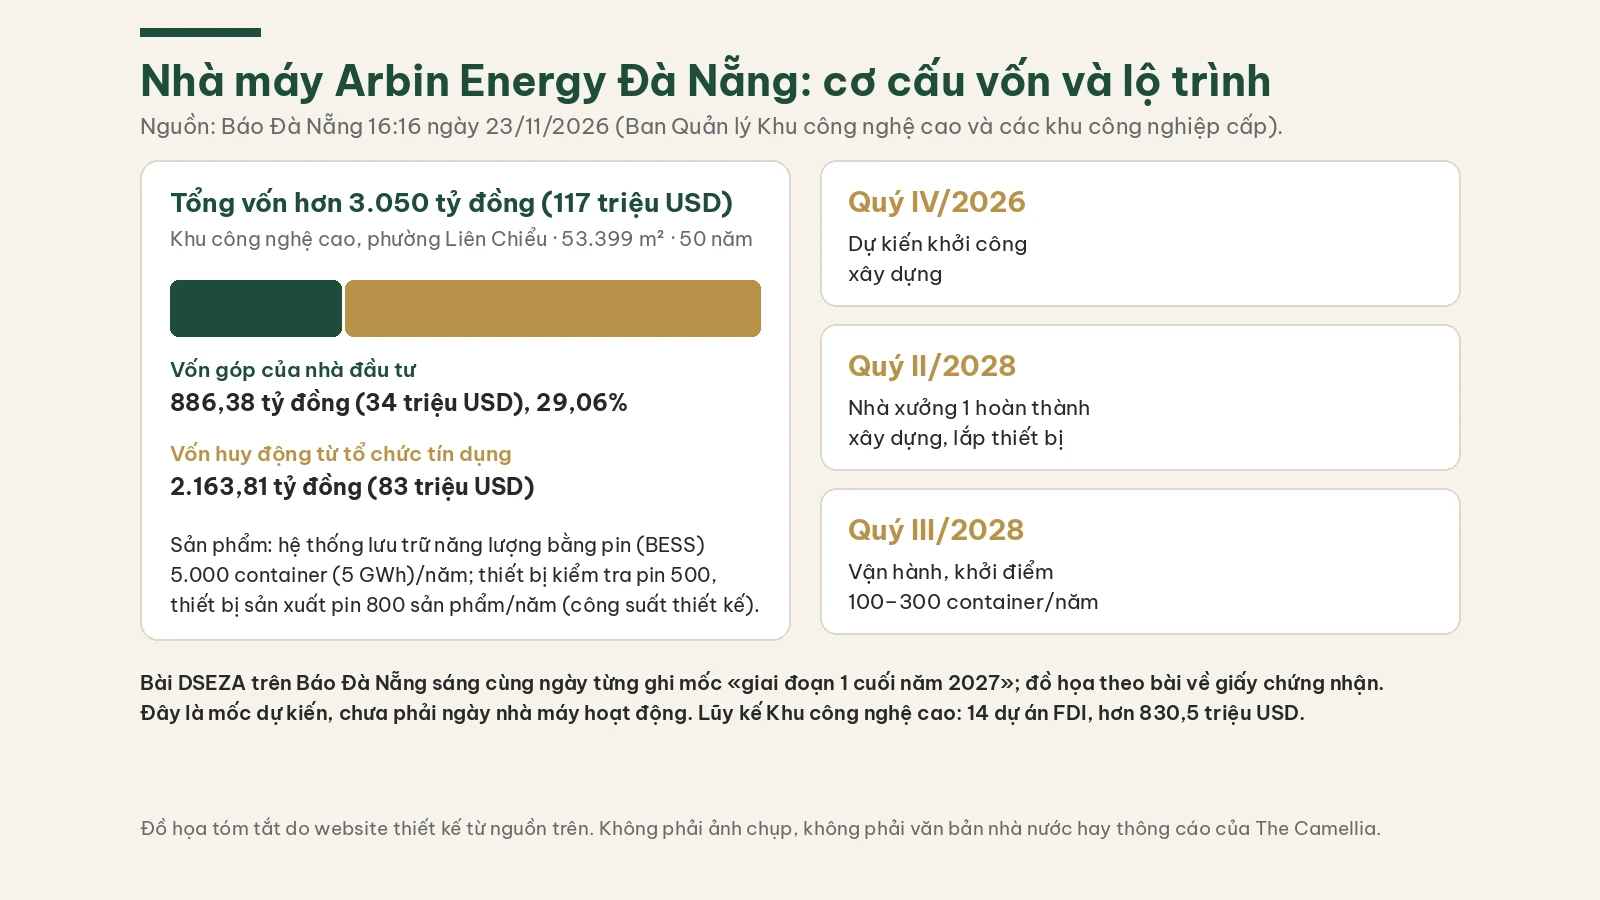
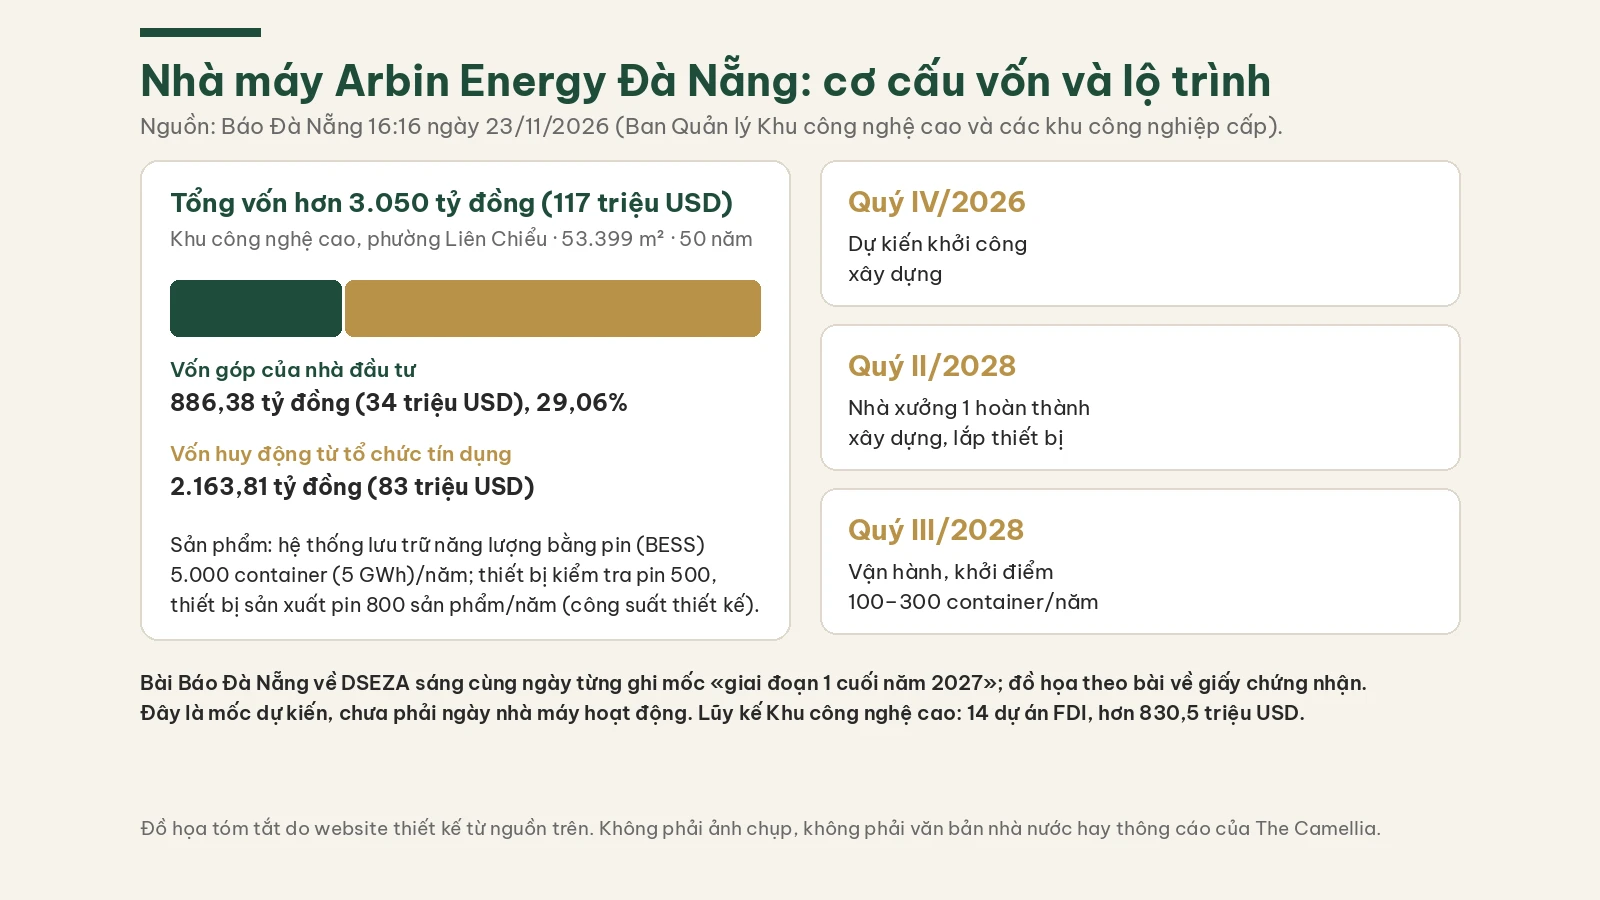
content: công nghiệp ĐN 27/11 — sửa câu chặn địa điểm (Tây – Tây Bắc / Tam Mỹ phía Nam) và góp ý không chặn của Luna

Changed region(s): [[0.125, 0.7467, 0.875, 0.7778]]

diff --git a/src/data/news/articles/cong-nghiep-da-nang-arbin-hoa-nhon-tam-my-27-11-2026.ts b/src/data/news/articles/cong-nghiep-da-nang-arbin-hoa-nhon-tam-my-27-11-2026.ts
@@ -26,7 +26,7 @@ export const article = {
       text: "Trong 6 ngày từ 20 đến 25/11/2026, Đà Nẵng có bốn tin liên quan đến đất công nghiệp và vốn đầu tư: xã Tam Mỹ lấy ý kiến người dân về phương án mở rộng Khu thương mại tự do thêm khoảng 1.205 ha (Cổng Thông tin điện tử TP Đà Nẵng, 20/11/2026); Ban Quản lý Khu công nghệ cao và các khu công nghiệp Đà Nẵng (DSEZA) cấp giấy chứng nhận đăng ký đầu tư nhà máy Arbin Energy hơn 3.050 tỷ đồng (Báo Đà Nẵng, 23/11/2026); Báo Đà Nẵng dẫn số liệu Sở Tài chính về dự án FDI trong các khu do DSEZA quản lý đến tháng 10/2026; và Cụm công nghiệp Hòa Nhơn khoảng 24,75 ha tại xã Bà Nà được khởi công ngày 25/11 (Báo Đầu tư, 25/11/2026).",
       image: "/images/news-cong-nghiep-2711-body-tong-quan.webp",
       imageAlt:
-        "Đồ họa bốn thẻ: 20/11 xã Tam Mỹ lấy ý kiến phương án mở rộng Khu thương mại tự do thêm khoảng 1.205 ha, chưa phê duyệt; 23/11 Arbin Energy được cấp giấy chứng nhận đăng ký đầu tư nhà máy tại Khu công nghệ cao, hơn 3.050 tỷ đồng (117 triệu USD), 53.399 m²; đến tháng 10/2026 các khu do DSEZA quản lý có 661 dự án, 187 dự án FDI, hơn 2,7 tỷ USD, từ đầu năm cấp mới 8 dự án FDI 368,7 triệu USD; 25/11 khởi công Cụm công nghiệp Hòa Nhơn khoảng 24,75 ha, vốn khoảng 285 tỷ đồng, mở cho nhà đầu tư từ quý I/2028. Các nguồn không nêu tác động đến giá nhà. Không phải ảnh chụp.",
+        "Đồ họa bốn thẻ: 20/11 xã Tam Mỹ lấy ý kiến phương án mở rộng Khu thương mại tự do thêm khoảng 1.205 ha, chưa phê duyệt; 23/11 Arbin Energy được cấp giấy chứng nhận đăng ký đầu tư nhà máy tại Khu công nghệ cao, hơn 3.050 tỷ đồng (117 triệu USD), 53.399 m²; đến tháng 10/2026 các khu do DSEZA quản lý có 661 dự án, 187 dự án FDI, hơn 2,7 tỷ USD, từ đầu năm cấp mới 8 dự án FDI 368,7 triệu USD; 25/11 khởi công Cụm công nghiệp Hòa Nhơn khoảng 24,75 ha, vốn hơn 285 tỷ đồng (Báo Công Thương; Việt Nam News ghi 284 tỷ đồng), mở cho nhà đầu tư từ quý I/2028. Các nguồn không nêu tác động đến giá nhà. Không phải ảnh chụp.",
       imageCaption:
         "Đồ họa tóm tắt do website thiết kế từ Cổng TTĐT TP Đà Nẵng, CafeF, Báo Đà Nẵng, Báo Đầu tư và Việt Nam News. Không phải ảnh chụp.",
     },
@@ -35,27 +35,27 @@ export const article = {
     },
     {
       heading: "Nhà máy lưu trữ năng lượng 117 triệu USD ở Khu công nghệ cao",
-      text: "Theo Báo Đà Nẵng (16:16 ngày 23/11/2026), DSEZA đã cấp giấy chứng nhận đăng ký đầu tư cho Công ty TNHH Arbin Energy làm dự án Nhà máy Arbin Energy Đà Nẵng, tổng vốn hơn 3.050 tỷ đồng (khoảng 117 triệu USD), trên 53.399 m² tại Khu công nghệ cao (báo ghi phường Liên Chiểu), thời hạn 50 năm. Vốn góp của nhà đầu tư 886,38 tỷ đồng (29,06%); 2.163,81 tỷ đồng còn lại huy động từ tổ chức tín dụng. Nhà máy làm hệ thống lưu trữ năng lượng bằng pin (BESS) quy mô lưới điện, công suất thiết kế 5.000 container (tương đương 5 GWh) mỗi năm, cùng thiết bị kiểm tra pin và thiết bị sản xuất pin. Lộ trình: dự kiến khởi công quý IV/2026; nhà xưởng 1 xong xây dựng, lắp thiết bị quý II/2028 và vận hành từ quý III/2028 với công suất khởi điểm 100–300 container BESS/năm. Lũy kế, Khu công nghệ cao đã thu hút 14 dự án FDI, vốn đăng ký hơn 830,5 triệu USD.",
+      text: "Theo Báo Đà Nẵng (16:16 ngày 23/11/2026), DSEZA đã cấp giấy chứng nhận đăng ký đầu tư cho Công ty TNHH Arbin Energy làm dự án Nhà máy Arbin Energy Đà Nẵng, tổng vốn hơn 3.050 tỷ đồng (khoảng 117 triệu USD), trên 53.399 m² tại Khu công nghệ cao (báo ghi phường Liên Chiểu; khu trải trên địa bàn các xã Hòa Liên và Hòa Ninh cũ), thời hạn 50 năm. Vốn góp của nhà đầu tư 886,38 tỷ đồng (29,06%); 2.163,81 tỷ đồng còn lại huy động từ tổ chức tín dụng. Nhà máy làm hệ thống lưu trữ năng lượng bằng pin (BESS) quy mô lưới điện, công suất thiết kế 5.000 container (tương đương 5 GWh) mỗi năm, cùng thiết bị kiểm tra pin và thiết bị sản xuất pin. Lộ trình: dự kiến khởi công quý IV/2026; nhà xưởng 1 xong xây dựng, lắp thiết bị quý II/2028 và vận hành từ quý III/2028 với công suất khởi điểm 100–300 container BESS/năm. Lũy kế, Khu công nghệ cao đã thu hút 14 dự án FDI, vốn đăng ký hơn 830,5 triệu USD.",
       image: "/images/news-cong-nghiep-2711-body-arbin.webp",
       imageAlt:
-        "Đồ họa nhà máy Arbin Energy Đà Nẵng: tổng vốn hơn 3.050 tỷ đồng (117 triệu USD), Khu công nghệ cao, 53.399 m², 50 năm; thanh vốn góp 886,38 tỷ đồng (29,06%) và vốn huy động từ tổ chức tín dụng 2.163,81 tỷ đồng; sản phẩm BESS 5.000 container (5 GWh)/năm, thiết bị kiểm tra pin 500 và thiết bị sản xuất pin 800 sản phẩm/năm; ba mốc: quý IV/2026 dự kiến khởi công, quý II/2028 nhà xưởng 1 hoàn thành, quý III/2028 vận hành với 100–300 container/năm. Ghi chú: bài DSEZA sáng cùng ngày từng ghi mốc giai đoạn 1 cuối năm 2027. Không phải ảnh chụp.",
+        "Đồ họa nhà máy Arbin Energy Đà Nẵng: tổng vốn hơn 3.050 tỷ đồng (117 triệu USD), Khu công nghệ cao, 53.399 m², 50 năm; thanh vốn góp 886,38 tỷ đồng (29,06%) và vốn huy động từ tổ chức tín dụng 2.163,81 tỷ đồng; sản phẩm BESS 5.000 container (5 GWh)/năm, thiết bị kiểm tra pin 500 và thiết bị sản xuất pin 800 sản phẩm/năm; ba mốc: quý IV/2026 dự kiến khởi công, quý II/2028 nhà xưởng 1 hoàn thành, quý III/2028 vận hành với 100–300 container/năm. Ghi chú: bài Báo Đà Nẵng về DSEZA sáng cùng ngày từng ghi mốc giai đoạn 1 cuối năm 2027. Không phải ảnh chụp.",
       imageCaption:
         "Đồ họa tóm tắt do website thiết kế từ Báo Đà Nẵng (23/11/2026). Không phải ảnh chụp.",
     },
     {
-      text: "Một bài khác của Báo Đà Nẵng đăng sáng cùng ngày (07:00 23/11/2026), viết trước khi giấy chứng nhận được công bố, ghi dự án dự kiến khởi công tháng 12/2026 và đưa giai đoạn 1 vào sản xuất cuối năm 2027. Bài này dùng các mốc trong tin về giấy chứng nhận (vận hành từ quý III/2028).",
+      text: "Một bài khác của Báo Đà Nẵng đăng sáng cùng ngày (07:00 23/11/2026), viết trước khi dự án được cấp giấy chứng nhận, gọi nhà đầu tư là Arbin Instruments (Hoa Kỳ) và ghi dự án dự kiến khởi công tháng 12/2026 và đưa giai đoạn 1 vào sản xuất cuối năm 2027. Bài này dùng các mốc trong tin về giấy chứng nhận (vận hành từ quý III/2028).",
     },
     {
       heading: "Khu công nghiệp do DSEZA quản lý: 187 dự án FDI",
-      text: "Cũng theo Báo Đà Nẵng (23/11/2026) dẫn Sở Tài chính, đến tháng 10/2026, các khu chức năng do DSEZA quản lý có 661 dự án, trong đó 187 dự án FDI với tổng vốn đăng ký hơn 2,7 tỷ USD. Từ đầu năm, DSEZA cấp mới 8 dự án FDI, vốn 368,7 triệu USD, tăng khoảng 3 lần so với cùng kỳ. Bài báo nêu thêm dự án pin lithium cho xe điện của REPT Battery Group (giai đoạn đầu dự kiến 300 triệu USD) đang được tiếp xúc, và Khu công nghiệp WHA Đà Nẵng 400 ha ở xã Thăng Bình, Đồng Dương (105 triệu USD) được chấp thuận chủ trương trong tháng 10/2026. Ở cấp toàn thành phố, VietnamPlus (04/11/2026) dẫn UBND TP cho biết vốn FDI 10 tháng năm 2026 đạt 803,93 triệu USD, gấp 2,47 lần cùng kỳ.",
+      text: "Cũng theo Báo Đà Nẵng (23/11/2026) dẫn Sở Tài chính, đến tháng 10/2026, các khu chức năng do DSEZA quản lý có 661 dự án, trong đó 187 dự án FDI với tổng vốn đăng ký hơn 2,7 tỷ USD. Từ đầu năm, DSEZA cấp mới 8 dự án FDI, vốn 368,7 triệu USD, tăng khoảng 3 lần so với cùng kỳ (theo cách diễn đạt của báo). Bài báo nêu thêm dự án pin lithium cho xe điện của REPT Battery Group (giai đoạn đầu dự kiến 300 triệu USD) đang được tiếp xúc, và Khu công nghiệp WHA Đà Nẵng 400 ha ở xã Thăng Bình, Đồng Dương (105 triệu USD) được chấp thuận chủ trương trong tháng 10/2026. Ở cấp toàn thành phố, VietnamPlus (04/11/2026) dẫn UBND TP cho biết vốn FDI 10 tháng năm 2026 đạt 803,93 triệu USD, gấp 2,47 lần cùng kỳ.",
     },
     {
       heading: "Cụm công nghiệp Hòa Nhơn khởi công ngày 25/11",
-      text: "Sáng 25/11, UBND TP Đà Nẵng và Công ty CP Đầu tư Sài Gòn – Đà Nẵng (SDN) khởi công Cụm công nghiệp Hòa Nhơn tại xã Bà Nà. Theo Báo Đầu tư (25/11/2026), dự án rộng khoảng 24,75 ha, trong đó hơn 15 ha đất thương phẩm, phục vụ cơ khí, điện tử, thiết bị điện, chế biến, chế tạo và công nghiệp hỗ trợ. Báo Công Thương ghi tổng mức đầu tư hơn 285 tỷ đồng; Việt Nam News (27/11/2026) ghi 284 tỷ đồng và cho biết cụm dự kiến mở cho nhà đầu tư thứ cấp từ quý I/2028. Theo Tiền Phong và Công Thương, cụm kết nối với Khu công nghiệp Liên Chiểu, Khu công nghiệp Hòa Khánh mở rộng và vị trí số 2 Khu thương mại tự do, nơi SDN cũng là nhà đầu tư hạ tầng.",
+      text: "Sáng 25/11, UBND TP Đà Nẵng và Công ty CP Đầu tư Sài Gòn – Đà Nẵng (SDN) khởi công Cụm công nghiệp Hòa Nhơn tại xã Bà Nà. Theo Báo Đầu tư (25/11/2026), dự án rộng khoảng 24,75 ha, trong đó hơn 15 ha đất thương phẩm, phục vụ cơ khí, điện tử, thiết bị điện, chế biến, chế tạo và công nghiệp hỗ trợ. Báo Công Thương ghi tổng mức đầu tư hơn 285 tỷ đồng; Việt Nam News (27/11/2026) ghi 284 tỷ đồng và cho biết cụm dự kiến mở cho nhà đầu tư công nghiệp từ quý I/2028. Các báo làm tròn khác nhau (khoảng 24,7–25 ha; 284–285 tỷ đồng). Theo Tiền Phong và Công Thương, cụm kết nối với Khu công nghiệp Liên Chiểu, Khu công nghiệp Hòa Khánh mở rộng và vị trí số 2 Khu thương mại tự do, nơi SDN cũng là nhà đầu tư hạ tầng.",
     },
     {
       heading: "Phương án mở rộng Khu thương mại tự do thêm 1.205 ha ở Tam Mỹ",
-      text: "Sáng 20/11, UBND xã Tam Mỹ tổ chức hội nghị lấy ý kiến người dân về phương án mở rộng ranh giới Khu thương mại tự do Đà Nẵng tại hai vị trí, tổng khoảng 1.205 ha, theo Báo cáo 592/BC-UBND của UBND TP (Cổng TTĐT TP Đà Nẵng, 20/11/2026). Vị trí 11 khoảng 800 ha, gắn với địa điểm quy hoạch ga đường sắt tốc độ cao Bắc – Nam, định hướng sản xuất, logistics, kho bãi, cảng cạn; có khoảng 290 hộ, 1.650 nhân khẩu, nhu cầu tái định cư ước 600–850 lô. Vị trí 12 khoảng 405 ha, gần nút giao cao tốc Bắc – Nam với ĐT.618 nối dài, định hướng sản xuất, logistics, đổi mới sáng tạo, thương mại, dịch vụ; khoảng 60 hộ, 300 nhân khẩu, tái định cư ước 180–300 lô. Người dân dự họp cơ bản đồng thuận với chủ trương nghiên cứu và đề nghị quan tâm khu tái định cư, sinh kế, công khai chính sách bồi thường. CafeF (22/11/2026) lưu ý: đây mới là bước lấy ý kiến; thành phố chưa công bố quyết định phê duyệt mở rộng. Khu thương mại tự do hiện có khoảng 1.881 ha tại 7 vị trí theo Quyết định 1142/QĐ-TTg ngày 13/6/2025.",
+      text: "Sáng 20/11, UBND xã Tam Mỹ tổ chức hội nghị lấy ý kiến người dân về phương án mở rộng ranh giới Khu thương mại tự do Đà Nẵng tại hai vị trí, tổng khoảng 1.205 ha, theo Báo cáo 592/BC-UBND của UBND TP (Cổng TTĐT TP Đà Nẵng, 20/11/2026). Vị trí 11 khoảng 800 ha, gắn với địa điểm quy hoạch ga đường sắt tốc độ cao Bắc – Nam, định hướng sản xuất, logistics, kho bãi, cảng cạn; có khoảng 290 hộ, 1.650 nhân khẩu, nhu cầu tái định cư ước 600–850 lô. Vị trí 12 khoảng 405 ha, gần nút giao cao tốc Bắc – Nam với ĐT.618 nối dài, định hướng sản xuất, logistics, đổi mới sáng tạo, thương mại, dịch vụ; khoảng 60 hộ, 300 nhân khẩu, tái định cư ước 180–300 lô. Người dân dự họp cơ bản đồng thuận với chủ trương nghiên cứu và đề nghị quan tâm khu tái định cư, sinh kế, công khai chính sách bồi thường. CafeF (22/11/2026) lưu ý: đây mới là bước lấy ý kiến; thành phố chưa công bố quyết định phê duyệt mở rộng. Khu thương mại tự do hiện có khoảng 1.881 ha tại 7 vị trí theo Quyết định 1142/QĐ-TTg ngày 13/6/2025. Số 11 và 12 là cách đánh số trong hồ sơ của thành phố; các nguồn không giải thích các vị trí 8–10.",
       image: "/images/news-cong-nghiep-2711-body-tam-my.webp",
       imageAlt:
         "Đồ họa hai thẻ: vị trí 11 khoảng 800 ha gắn với ga đường sắt tốc độ cao, sản xuất, logistics, kho bãi, cảng cạn, khoảng 290 hộ, 1.650 nhân khẩu, 680 hộ ảnh hưởng đất sản xuất, tái định cư 600–850 lô; vị trí 12 khoảng 405 ha gần nút cao tốc Bắc – Nam và ĐT.618 nối dài, 200 ha phía Tây và 205 ha phía Đông, khoảng 60 hộ, 300 nhân khẩu, 280 hộ ảnh hưởng đất sản xuất, tái định cư 180–300 lô. Cộng hai vị trí khoảng 350 hộ, 1.950 nhân khẩu, 780–1.150 lô. Khu thương mại tự do hiện có khoảng 1.881 ha tại 7 vị trí. Trạng thái: mới lấy ý kiến, chưa phê duyệt. Không phải ảnh chụp.",
@@ -70,7 +70,7 @@ export const article = {
     },
     {
       heading: "Người mua nhà nên đọc các tin này thế nào",
-      text: "Thứ nhất, đây là động lực trung và dài hạn. Nhà máy Arbin dự kiến vận hành từ quý III/2028, Cụm công nghiệp Hòa Nhơn mở cho nhà đầu tư từ quý I/2028, còn phần mở rộng ở Tam Mỹ chưa được phê duyệt. Việc làm mới, nếu có, chủ yếu đến sau các mốc đó. Thứ hai, các địa điểm được nêu là Khu công nghệ cao, xã Bà Nà và xã Tam Mỹ ở phía Nam thành phố; không nguồn nào nhắc phường Sơn Trà. Thứ ba, các nguồn không đưa con số nào về giá nhà, giá thuê hay nhu cầu nhà ở quanh các dự án, nên bài không suy ra giá căn hộ sẽ tăng hay giảm ở đâu.",
+      text: "Thứ nhất, đây là động lực trung và dài hạn. Nhà máy Arbin dự kiến vận hành từ quý III/2028, Cụm công nghiệp Hòa Nhơn mở cho nhà đầu tư từ quý I/2028, còn phần mở rộng ở Tam Mỹ chưa được phê duyệt. Việc làm mới, nếu có, chủ yếu đến sau các mốc đó. Thứ hai, các địa điểm được nêu là Khu công nghệ cao và xã Bà Nà, ở phía Tây – Tây Bắc thành phố, cùng xã Tam Mỹ ở phía Nam thành phố (khu vực Quảng Nam cũ); không nguồn nào nhắc phường Sơn Trà. Thứ ba, các nguồn không đưa con số nào về giá nhà, giá thuê hay nhu cầu nhà ở quanh các dự án, nên bài không suy ra giá căn hộ sẽ tăng hay giảm ở đâu.",
     },
     {
       text: "Khi nghe một khu «hưởng lợi từ khu công nghiệp, khu thương mại tự do», anh chị có thể hỏi lại: dự án nào, đã khởi công hay mới lấy ý kiến, mốc vận hành lấy từ văn bản nào, và khu đó cách nơi mình định ở bao xa. Điều có thể theo dõi tiếp: lễ khởi công nhà máy Arbin (dự kiến quý IV/2026) và quyết định của cấp có thẩm quyền về phương án mở rộng ở Tam Mỹ.",
@@ -115,7 +115,7 @@ export const article = {
     },
     {
       heading: "Các tin này có liên quan đến phường Sơn Trà không?",
-      text: "Các nguồn không nhắc phường Sơn Trà. Địa điểm được nêu là Khu công nghệ cao, xã Bà Nà và xã Tam Mỹ.",
+      text: "Các nguồn không nhắc phường Sơn Trà. Địa điểm được nêu là Khu công nghệ cao và xã Bà Nà, ở phía Tây – Tây Bắc thành phố, cùng xã Tam Mỹ ở phía Nam thành phố (khu vực Quảng Nam cũ).",
     },
     {
       heading: "Tin này có làm giá nhà Đà Nẵng thay đổi không?",
